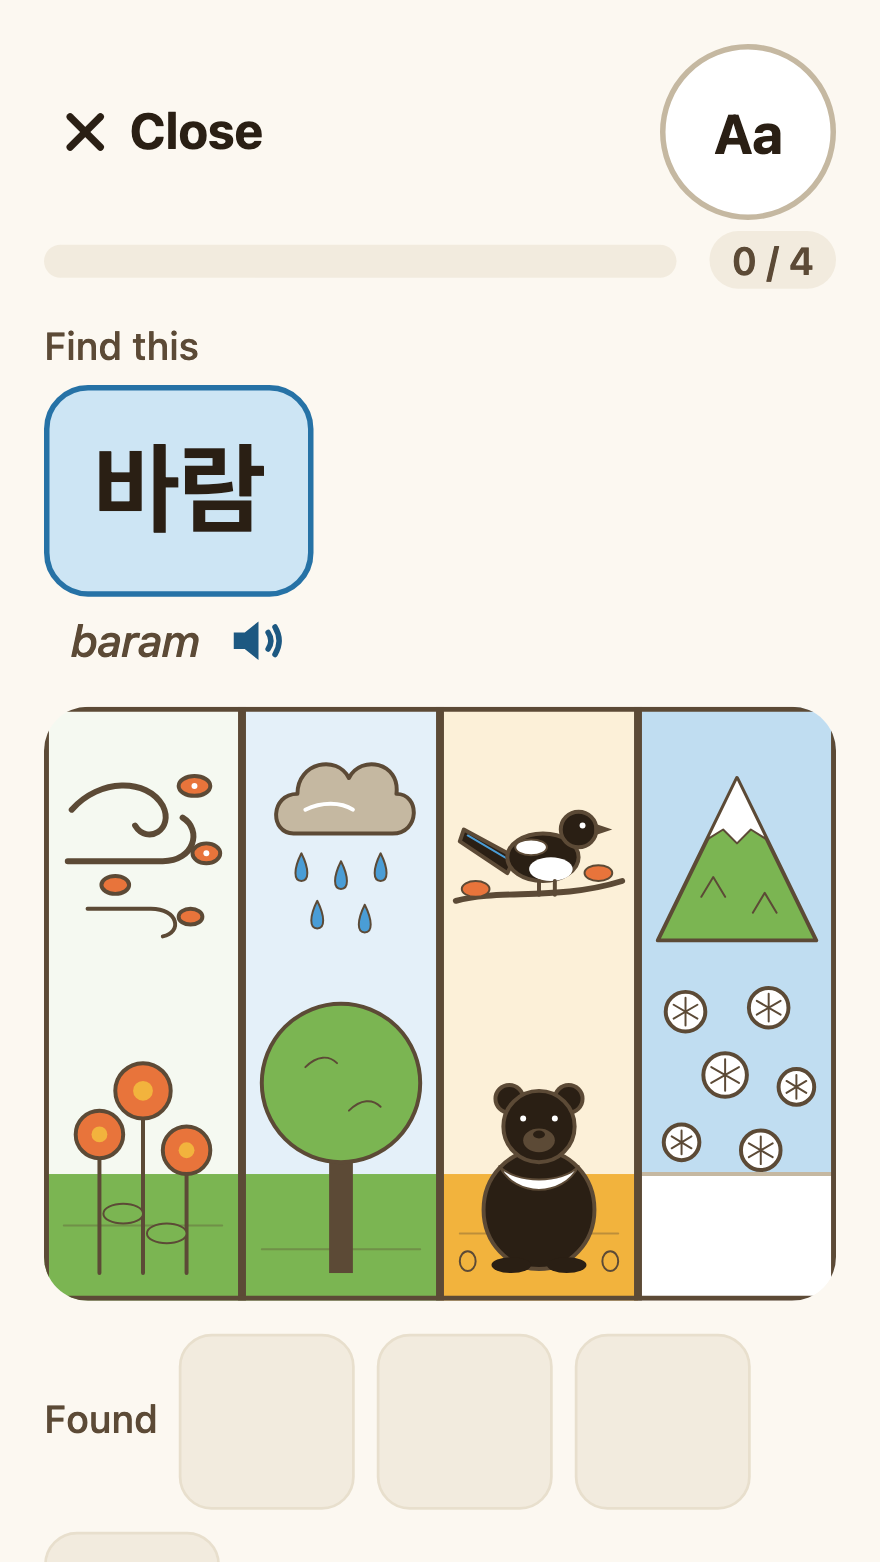
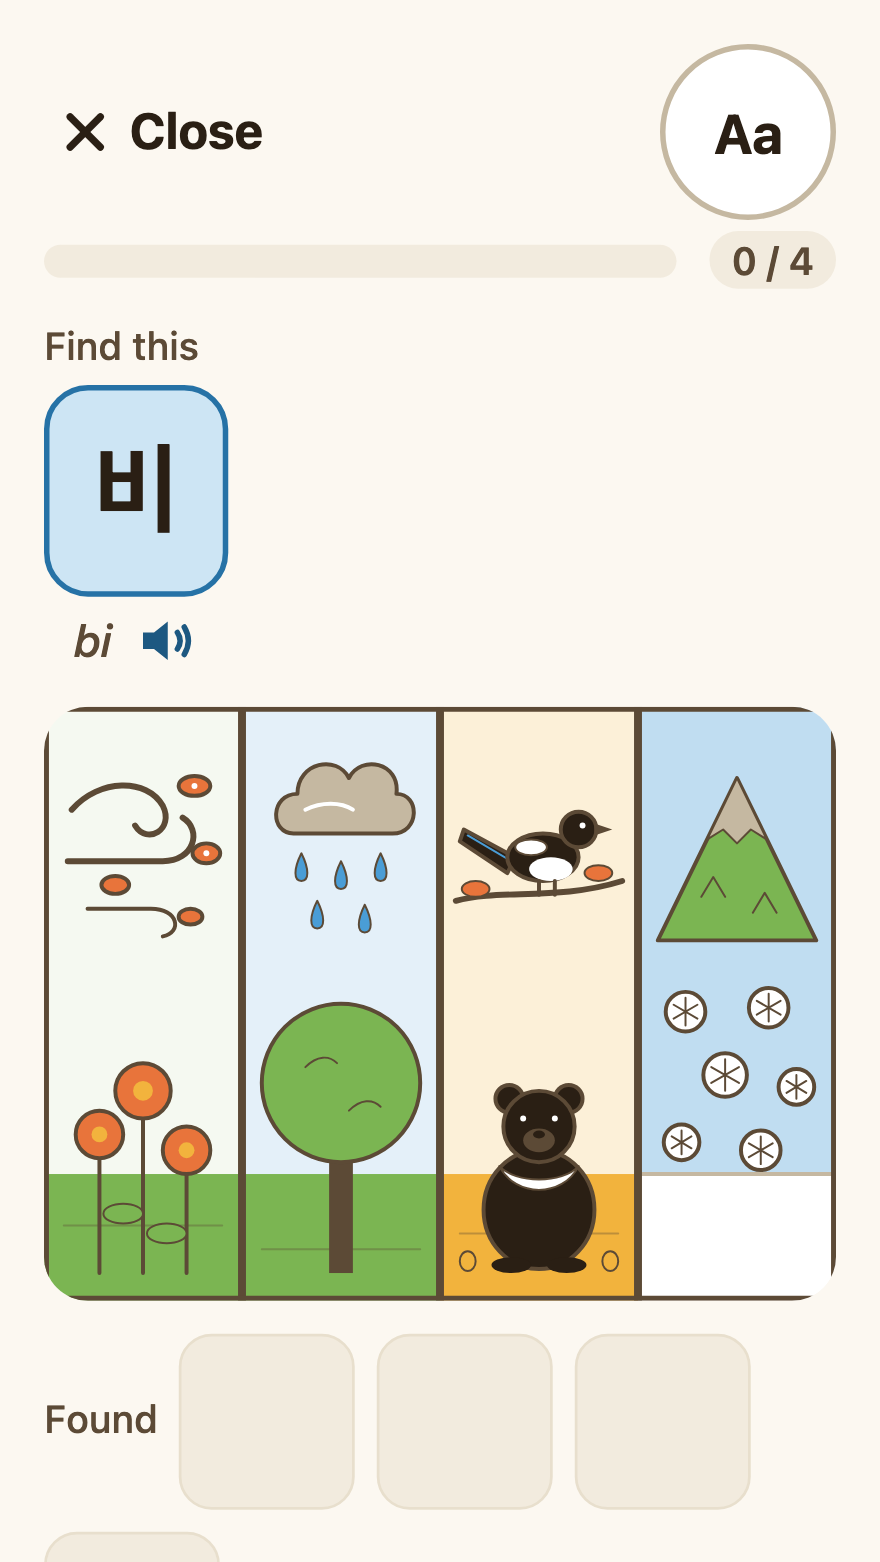
fix(content,mobile): four-seasons e2e runs in the fixture shard; bare mountain peak, f2 quote scope, reviser and third MAR passes (F-CURR-002 CM-37 part 3)
- Rename the e2e to realia-read-hidden-heritage-seasons.spec.ts so the fixture run's
  realia-read entry selects it (ci-workflows test), and poll state instead of fixed sleeps.
- The winter mountain no longer wears a white cap above the snow spot; a test holds that
  the falling snow is the only snow, and the calm-bear test now checks the drawing.
- f2 quotes the KMA paragraph from the national figure; the ko alt says 칸 once.
- MAR passes 4 (reviser) and 5 (third pass); budgets re-measured on CM-36 head 18b12b70b.

Changed region(s): [[0.0614, 0.2458, 0.3682, 0.4302], [0.7977, 0.4917, 0.8591, 0.5531]]

diff --git a/packages/design-system/src/scene-art/hidden-heritage/four-seasons.ts b/packages/design-system/src/scene-art/hidden-heritage/four-seasons.ts
@@ -106,17 +106,18 @@ const MAGPIE: ItemDef = {
   ],
 };
 
-/** A mountain (산) in winter: evergreen slopes under a snowy top, an other thing. */
+/** A mountain (산) in winter: evergreen slopes under a bare rock peak, an other thing. No snow lies on it, so the falling
+ * snow beneath is the only snow in the scene and a tap on the mountain never finds 눈 by another name. */
 const MOUNTAIN: ItemDef = {
   id: 'prop:hh-winter-mountain',
   kind: 'nature',
   box: { w: 84, h: 86 },
   z: 'mid',
-  alt: 'A green mountain with a white top',
-  accuracyNote: 'A generic mountain with a snowcap; no named peak is drawn.',
+  alt: 'A green mountain with a grey rocky peak',
+  accuracyNote: 'A generic mountain with evergreen slopes and a bare grey rock peak; no snow is drawn on it and no named peak is meant.',
   nodes: [
     { t: 'poly', pts: [[2, 86], [42, 4], [82, 86]], fill: 'theme.nature', stroke: 'text.secondary', sw: 'base' },
-    { t: 'poly', pts: [[42, 4], [57, 35], [49, 30], [42, 37], [35, 30], [27, 35]], fill: 'surface.paper', stroke: 'text.secondary', sw: 'thin' },
+    { t: 'poly', pts: [[42, 4], [57, 35], [49, 30], [42, 37], [35, 30], [27, 35]], fill: 'border.strong', stroke: 'text.secondary', sw: 'thin' },
     { t: 'path', d: 'M24 64L30 54L36 64 M50 72L56 62L62 72', fill: 'none', stroke: 'text.secondary', sw: 'thin', det: true },
   ],
 };
@@ -270,7 +271,8 @@ export const FOUR_SEASONS_SCENE: HiddenHeritageScene = {
             title: '기상청 날씨누리 「한국 기후특성」 (Climate of Korea)',
             url: 'https://www.weather.go.kr/w/climate/statistics/korea.do',
             accessed: '2026-10-23',
-            quote: '계절별로는 여름철 강수량이 710.9mm로 연 강수량의 54%를 차지한다. … 봄인 3~4월에 풍속이 비교적 높게 나타나고',
+            quote:
+              '전국의 연강수량은 1306.3mm이며, … 제주도(4개 지점)의 연강수량은 1182.9 ~ 2030.0mm로 나타나며, 계절별로는 여름철 강수량이 710.9mm로 연 강수량의 54%를 차지한다. … 봄인 3~4월에 풍속이 비교적 높게 나타나고',
           },
         ],
       },
@@ -335,11 +337,13 @@ export const FOUR_SEASONS_SCENE: HiddenHeritageScene = {
   review: {
     reviewedBy: 'MAR',
     reviewedAt: '2026-10-23',
-    passes: 3,
+    passes: 5,
     notes: [
       'Pass 1 (author sourcing): the five pages were opened on 2026-10-23 and every quote copied from them. The two National Institute of Biological Resources species pages of 한반도의 생물다양성 (까치 Pica serica, ktsn 120000532854; 반달가슴곰 Ursus thibetanus ussuricus, ktsn 120000212858) and the Encyclopedia of Korean Folk Culture entry draw their text by script, so it was read from the text each page loads. Every institution is on the §6.6 allowlist under its name on that date. The minhwa quote keeps the entry order (history, content, features), and its first draft, which cut a sentence in half, was replaced by whole sentences.',
       'Pass 2 (culture and facts): each claim says no more than its quote. The spring wind is "fairly strong" (비교적 높게), not the strongest; the bear "is" endangered (처해 있으며). Kkachihorangi is credited to Yuan and Ming tiger paintings, as the entry says, so shared East Asian heritage is not framed as Korean in origin, and only "a friendlier character" is claimed of the tiger. The tiger is a fact about old pictures and is never drawn. The bear sits calm (mouth closed, no claws) in autumn, when its source says it feeds, with acorns, which it says the bear likes. The magpie is a resident bird, right in any season. No figure or composition of a painting is used.',
       'Pass 3 (language, learning design and the 7.7 list): the targets are taught words with bundled pictures, one in each season: 바람, 비 and 눈 of quest:stage2-nature-q2 and 까치 of quest:stage2-letters-q2 (the Stage 1 Nature card word), each in Korean with rr.ts romanization and never as an English label, with the es and ko meanings the shipped Stage 2 overlays give them (a test compares them). The mountain was described as "with snow on its top", which named a target; it is now "a white top". The alt text names the setting, never a thing; no other meaning holds a target word; no percentage, timer, age word, speaking UI or emoji in any string.',
+      'Pass 4 (reviser): two independent reviews of the PR were adjudicated. The winter mountain wore a white snowcap right above the 눈 spot, so a learner who found snow on it would have been marked as missing; the peak is now bare grey rock (border.strong) and the falling snow is the only snow drawn (a test holds it). The f2 rain quote is now given whole from 전국의 연강수량: on the page the seasonal clause follows the Jeju clause in one sentence, but 710.9 mm is 54% of the 1,306.3 mm national mean the paragraph opens with (710.9 / 1,306.3 = 0.544), while the Jeju clause gives only a range of station totals, so the claim reads it as the national summer share; the page was opened again on 2026-10-27 and the words match. The ko alt said 칸 three times and now reads 네 계절을 한 칸에 하나씩 나란히 그린 그림. The season words 봄 여름 가을 겨울 and 반달가슴곰 stay untaught, so they are not targets here; the Nature Volume 2 S2 content row (CM-41) teaches them and makes 반달가슴곰 a target when it copies the round.',
+      'Pass 5 (third pass): the revised scene was checked again against the profile, §5.1, §7.7 and the taught-items rule. Every other thing in a target column (산 over 눈, 꽃 under 바람, 나무 under 비, 반달가슴곰 under 까치) shows nothing of its target; the bear is drawn from ellipses and one chest mark only, mouth closed with no claws or pointed shapes; the es and ko meanings are unchanged except the ko alt; no claim says more than its quote, and the record names no review but this multi-agent one.',
     ],
   },
 };
@@ -363,7 +367,7 @@ export const FOUR_SEASONS_OVERLAYS = {
     'hiddenHeritage.rounds.hh1.others.bandalgaseumgom.word.gloss': 'oso negro asiático',
   },
   ko: {
-    'hiddenHeritage.rounds.hh1.alt': '한 해의 네 계절을 한 칸에 하나씩 나란히 그린 네 칸 그림.',
+    'hiddenHeritage.rounds.hh1.alt': '네 계절을 한 칸에 하나씩 나란히 그린 그림.',
     'hiddenHeritage.rounds.hh1.targets.baram.word.gloss': '움직이는 공기',
     'hiddenHeritage.rounds.hh1.targets.bi.word.gloss': '구름에서 떨어지는 물방울',
     'hiddenHeritage.rounds.hh1.targets.kkachi.word.gloss': '검은색과 흰색 깃털을 가진 새',

diff --git a/apps/mobile/e2e/web/realia-read-hidden-heritage-seasons.spec.ts b/apps/mobile/e2e/web/realia-read-hidden-heritage-seasons.spec.ts
@@ -10,7 +10,10 @@ import { expectNoHorizontalOverflow } from './viewport';
  * through `window.__hrHiddenHeritageE2E` (fixture bundle only, served from dist-e2e/):
  *
  *   pnpm --filter @hangul-route/mobile build:web:fixtures
- *   STORY_FIXTURES=1 pnpm --filter @hangul-route/mobile exec playwright test hidden-heritage-seasons
+ *   STORY_FIXTURES=1 pnpm --filter @hangul-route/mobile exec playwright test realia-read-hidden-heritage-seasons
+ *
+ * The file is named under `realia-read` (its sibling scene game), like CM-36's realia-read-hidden-heritage.spec.ts, so the
+ * fixture e2e run's `realia-read` entry in .github/workflows/web-app.yml selects it.
  *
  * `game.hidden-heritage` ships at built-in pct 0, so each case seeds the stored remote copy.
  */
@@ -38,6 +41,8 @@ async function open(page: Page, gameOn: boolean): Promise<void> {
   await page.addStyleTag({ content: '[data-testid="pwa-banners"] { display: none !important; }' });
   await page.evaluate((sceneId) => (window as E2eWindow).__hrHiddenHeritageE2E?.open({ sceneId }), SCENE);
 }
+
+const log = (page: Page) => page.evaluate(() => (window as E2eWindow).__hrHiddenHeritageE2E!.log());
 
 async function asked(page: Page): Promise<string> {
   const ko = (await page.getByTestId('hh-prompt').innerText()).split('\n')[0]!.trim();
@@ -70,19 +75,23 @@ test.describe('Hidden Heritage, the four seasons (F-CURR-002 CM-37 part 3)', () 
       await shot(page, `hidden-heritage-seasons-ask-${size.name}`);
       await page.getByTestId('hh-spot-bandalgaseumgom').click();
       await expect(page.getByText('Look again').first()).toBeVisible();
-      await page.waitForTimeout(700);
+      // State, not sleeps: the miss is logged and its ring clears on its own (MISS_RING_MS) before the next tap.
+      await expect.poll(async () => (await log(page)).answers.length).toBe(1);
+      await expect(page.getByTestId('hh-ring-miss')).toHaveCount(0);
       for (let i = 0; i < 4; i += 1) {
         ko = await asked(page);
         await page.getByTestId(`hh-spot-${TARGETS[ko]!.id}`).click();
         await expect(page.getByRole('button', { name: `${TARGETS[ko]!.meaning}, found` })).toBeVisible();
-        await page.waitForTimeout(800);
+        await expect.poll(async () => (await log(page)).answers.length).toBe(i + 2);
+        // The next word comes once the meaning has shown (FOUND_ADVANCE_MS); after the last, the end panel.
+        if (i < 3) await expect(page.getByTestId('hh-prompt')).not.toContainText(ko);
       }
       await expect(page.getByText('You found them all')).toBeVisible();
       for (const t of Object.values(TARGETS)) await expect(page.getByTestId('hh-end').getByText(t.meaning, { exact: true })).toBeVisible();
       expect(await page.locator('body').innerText()).not.toMatch(SHAME);
       await expectNoHorizontalOverflow(page);
       await shot(page, `hidden-heritage-seasons-end-${size.name}`);
-      const answers = (await page.evaluate(() => (window as E2eWindow).__hrHiddenHeritageE2E!.log())).answers;
+      const answers = (await log(page)).answers;
       expect(answers.map((a) => a.correct)).toEqual([false, true, true, true, true]);
     });
   }

diff --git a/packages/design-system/src/scene-art/__tests__/hidden-heritage-four-seasons.test.ts b/packages/design-system/src/scene-art/__tests__/hidden-heritage-four-seasons.test.ts
@@ -74,13 +74,35 @@ describe('the four-season scene (row CM-37 part 3)', () => {
     const bear = scene.items.find((i) => i.id === 'prop:hh-moon-bear')!;
     expect(bear.accuracyNote).toMatch(/mouth closed/);
     expect(JSON.stringify(bear.nodes)).not.toMatch(/feedback|brand\.primary/);
+    // Round shapes only: no pointed polygon (claws, teeth) anywhere, and one path, the white half-moon on the chest.
+    expect(bear.nodes.filter((n) => n.t === 'poly')).toEqual([]);
+    const paths = bear.nodes.filter((n) => n.t === 'path');
+    expect(paths).toHaveLength(1);
+    expect(paths[0]).toMatchObject({ fill: 'surface.paper' });
+    // The muzzle is closed: under the nose (cy 30) nothing but the muzzle ellipse sits in the face (y 24 to 44).
+    const face = bear.nodes.filter((n) => n.t === 'ellipse' && n.cy > 24 && n.cy < 44);
+    expect(face.map((n) => (n.t === 'ellipse' ? [n.cx, n.cy] : null))).toEqual([
+      [42, 33],
+      [42, 30],
+    ]);
     expect(Math.floor(scene.round.others.find((t) => t.id === 'bandalgaseumgom')!.spot.x / 100)).toBe(2);
   });
 
-  it('records the MAR review in at least 3 passes, with no native-speaker or expert claim and no age wording', () => {
+  it('the falling snow is the only snow: the mountain over the 눈 spot wears no white cap', () => {
+    const mountain = scene.items.find((i) => i.id === 'prop:hh-winter-mountain')!;
+    expect(JSON.stringify(mountain.nodes)).not.toContain('surface.paper');
+    expect(`${mountain.alt} ${mountain.accuracyNote}`).not.toMatch(/\b(white|snowy|snowcap)\b/i);
+    const snowColumn = Math.floor(scene.round.targets.find((t) => t.id === 'nun')!.spot.x / 100);
+    expect(Math.floor(scene.round.others.find((t) => t.id === 'san')!.spot.x / 100)).toBe(snowColumn);
+  });
+
+  it('records the MAR review in at least 3 passes, a reviser and a third pass after it, with no native-speaker or expert claim and no age wording', () => {
     expect(scene.review).toMatchObject({ reviewedBy: 'MAR' });
     expect(scene.review.passes).toBeGreaterThanOrEqual(3);
     expect(scene.review.notes).toHaveLength(scene.review.passes);
+    const reviser = scene.review.notes.findIndex((n) => n.startsWith('Pass 4 (reviser)'));
+    expect(reviser).toBeGreaterThanOrEqual(0);
+    expect(scene.review.notes.slice(reviser + 1).some((n) => /\(third pass\)/.test(n))).toBe(true);
     const text = JSON.stringify({ review: scene.review, note: scene.note, overlays: FOUR_SEASONS_OVERLAYS, items: scene.items.map((i) => i.alt) });
     expect(text).not.toMatch(/native speaker|native-speaker|expert/i);
     expect(text).not.toMatch(/\b(kids?|children|child|ages? \d)\b|어린이/i);

diff --git a/docs/specs/F-CURR-002-category-expansion-and-mastery.md b/docs/specs/F-CURR-002-category-expansion-and-mastery.md
@@ -838,11 +838,11 @@ Default Checks by stage:
 - **Start bundle.** `build:web --budget` measures 4,749,697 B raw / 1,266,020 B gzip (release) and 4,749,853 B raw (app-host), against main's 4,742,691 B, under the 4,750,000 B line: the schema and its lesson scope, the overlay fields, the codec's new code, the entry, the loader, the fallback board, the deck builder's slide and the strings. The e2e entry's screen is a chunk of its own, so the start bundle keeps only its hook. Merged onto main e31bc3b33 (4,749,283 B raw / 1,265,555 B gzip, 717 B under the line) it measures 4,756,289 B raw / 1,267,788 B gzip, 7,006 B over main (the round schema 1,613 B, the e2e hook 927 B, the codec 491 B, the deck builder 357 B, the strings 273 B, the root navigator 196 B, the entry, loader, fallback board and wiring 3,149 B), so the line moves to 4,760,000 B in one line with these numbers (`apps/mobile/scripts/pwa/lesson-chunks.mjs`), an owner-visible budget change. Main then moved the line to 4,760,000 B itself (CM-23c, #845, 4,751,444 B), so in the second fix stage the row changes no line: merged onto main 524961dae it measures 4,758,450 B raw / 1,268,719 B gzip (the same 7,006 B), 1,550 B under it, recorded beside the line. The CM-37 scene rows re-measure against it.
 
 **Decision record (row CM-37 part 3, the Nature & Animals scene, 2026-10-23).**
-- **The scene (§5.5 S2, OD-10).** `packages/design-system/src/scene-art/hidden-heritage/four-seasons.ts`, `scene:four-seasons`: the four seasons side by side in four plain panels, composed fresh from the kit in eight theme colours (no person, Hoya, tiger or writing): spring wind carrying petals over flowers, a summer rain cloud over a tree in leaf, a magpie on an autumn branch over a moon bear sitting calm beside acorns, a snow-topped mountain over falling snow. Its reference round asks 바람, 비 and 눈 (taught by `quest:stage2-nature-q2`) and 까치 (taught by `quest:stage2-letters-q2`, the Stage 1 Nature card word), one in each season, with their taught meanings and bundled pictures (`word:science-wind`, `word:nature-rain`, `card:magpie`, `word:nature-snow`), among 산, 꽃, 나무 and 반달가슴곰; no other thing's meaning holds a target's meaning or word. The targets are items already taught, so `build-review-items.mjs --freeze` adds no id. The Nature Volume 2 S2 content row (CM-41) copies the round into the cell and teaches the season words, which have no picture.
+- **The scene (§5.5 S2, OD-10).** `packages/design-system/src/scene-art/hidden-heritage/four-seasons.ts`, `scene:four-seasons`: the four seasons side by side in four plain panels, composed fresh from the kit in eight theme colours (no person, Hoya, tiger or writing): spring wind carrying petals over flowers, a summer rain cloud over a tree in leaf, a magpie on an autumn branch over a moon bear sitting calm beside acorns, a mountain with a bare grey rock peak over falling snow (the only snow drawn, so no other thing shows a target). Its reference round asks 바람, 비 and 눈 (taught by `quest:stage2-nature-q2`) and 까치 (taught by `quest:stage2-letters-q2`, the Stage 1 Nature card word), one in each season, with their taught meanings and bundled pictures (`word:science-wind`, `word:nature-rain`, `card:magpie`, `word:nature-snow`), among 산, 꽃, 나무 and 반달가슴곰; no other thing's meaning holds a target's meaning or word. The targets are items already taught, so `build-review-items.mjs --freeze` adds no id. The Nature Volume 2 S2 content row (CM-41) copies the round into the cell, teaches the season words 봄 여름 가을 겨울 (they have no picture yet) and 반달가슴곰, and then makes 반달가슴곰 a target of the round; until then it is only an other thing.
 - **The tiger (§5.1, §5.5 S2).** The magpie and the tiger of folk painting are a card-back fact about old pictures only; no tiger is drawn in the scene.
 - **Meanings.** The round's alt text and its eight meanings have es and ko values in the scene's chunk (`FOUR_SEASONS_OVERLAYS`, under the `hiddenHeritage.rounds.<roundId>.*` overlay paths), which the content row copies into its `content/i18n` overlay; the targets' values are the shipped Stage 2 ones. No UI string is added.
-- **Sources (5.1, 6.6).** Korea Meteorological Administration (날씨누리 한국 기후특성), National Institute of Biological Resources (한반도의 생물다양성: 까치, 반달가슴곰), Korea National Park Service (생태계복원 반달가슴곰) and the National Folk Museum of Korea's Encyclopedia of Korean Folk Culture (한국민속상징사전 까치호랑이, topic 10300), opened on 2026-10-23 with the quoted words. Kkachihorangi is credited to Yuan and Ming tiger paintings, as the entry says. MAR, three passes, no native-speaker or expert claim.
-- **Budget.** The scene chunk `scene-four-seasons` (marker `scene-chunk:four-seasons`) measures 20,653 B raw built, under the 25,000 B line. On the CM-36 head e7a7fb0d5 the start bundle carries one more loader entry: 4,756,430 B raw / 1,267,837 B gzip (release), 141 B over CM-36's 4,756,289 B and under the 4,760,000 B line, which stays. Locale chunks largest 927,284 B (line 1,000,000 B); learner precache 9,427,577 B (line 11,287,329 B).
+- **Sources (5.1, 6.6).** Korea Meteorological Administration (날씨누리 한국 기후특성), National Institute of Biological Resources (한반도의 생물다양성: 까치, 반달가슴곰), Korea National Park Service (생태계복원 반달가슴곰) and the National Folk Museum of Korea's Encyclopedia of Korean Folk Culture (한국민속상징사전 까치호랑이, topic 10300), opened on 2026-10-23 with the quoted words. Kkachihorangi is credited to Yuan and Ming tiger paintings, as the entry says. The f2 rain figure is the national summer share: the KMA page prints it after the Jeju clause, but 710.9 mm is 54% of the 1,306.3 mm national mean its paragraph opens with, and the quote now carries both. MAR, five passes (a reviser and a third pass after it), no native-speaker or expert claim. The card-back facts f1 to f6 get their es and ko in the row that first shows the card back.
+- **Budget.** The scene chunk `scene-four-seasons` (marker `scene-chunk:four-seasons`) measures 22,652 B raw built, under the 25,000 B line. On the CM-36 head 18b12b70b (over main 524961dae) the start bundle carries one more loader entry: 4,758,591 B raw / 1,268,782 B gzip (release), 141 B over CM-36's 4,758,450 B and 1,409 B under the 4,760,000 B line, which stays. Locale chunks largest 933,295 B (line 1,000,000 B); learner precache 9,455,737 B (line 11,287,329 B).
 
 ### 7.2 Cards and albums
 
